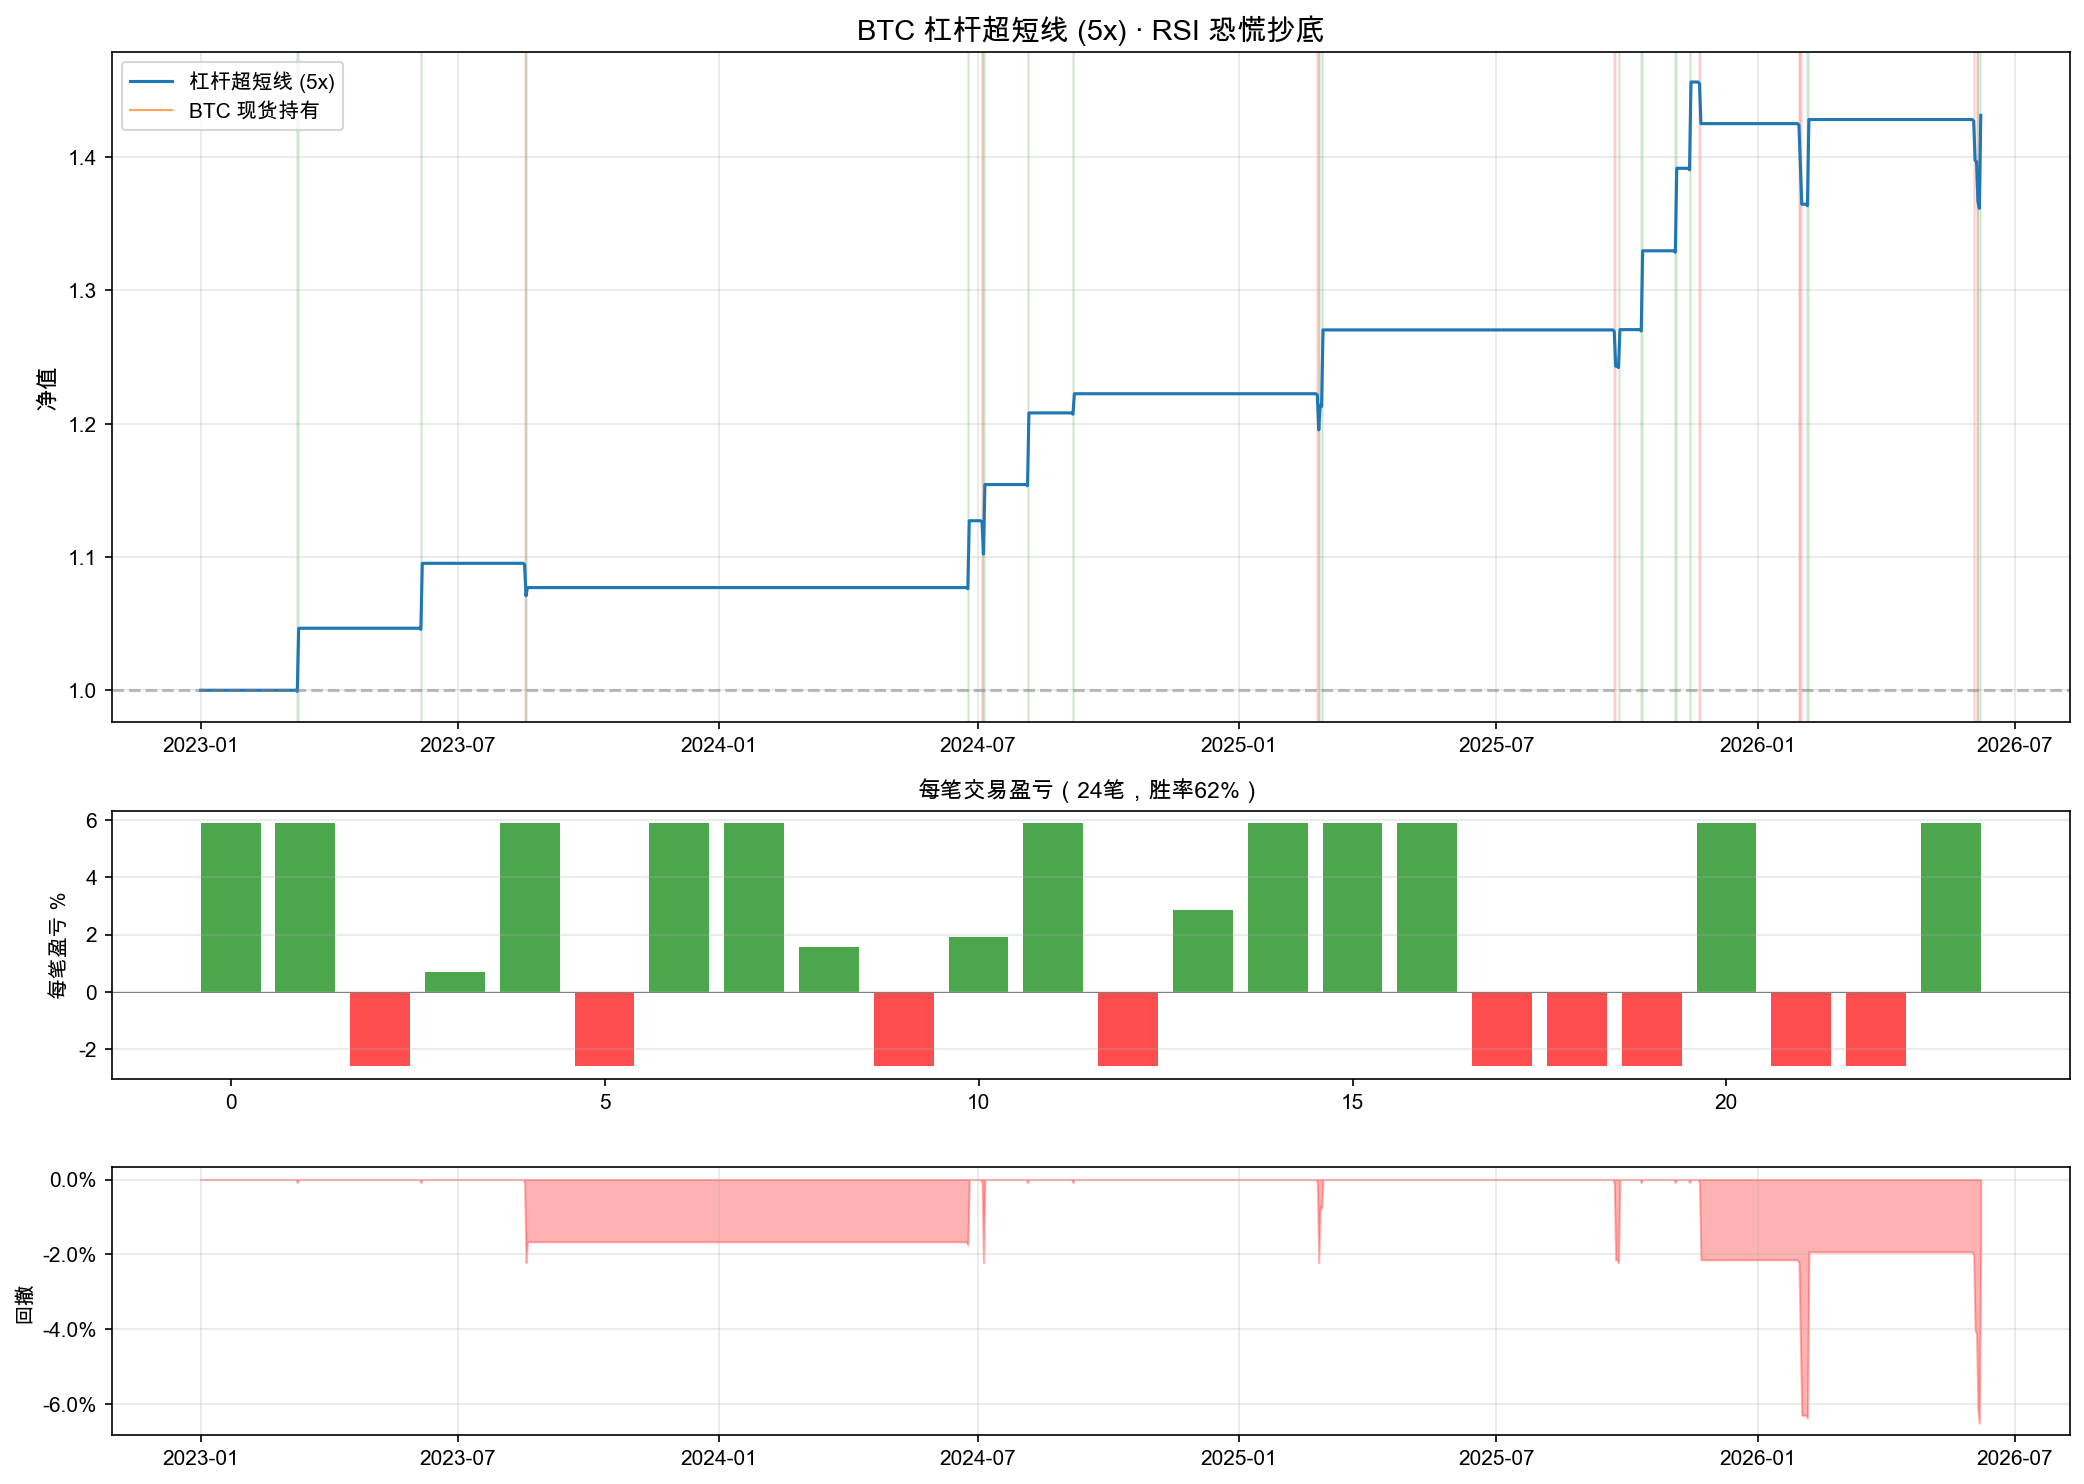
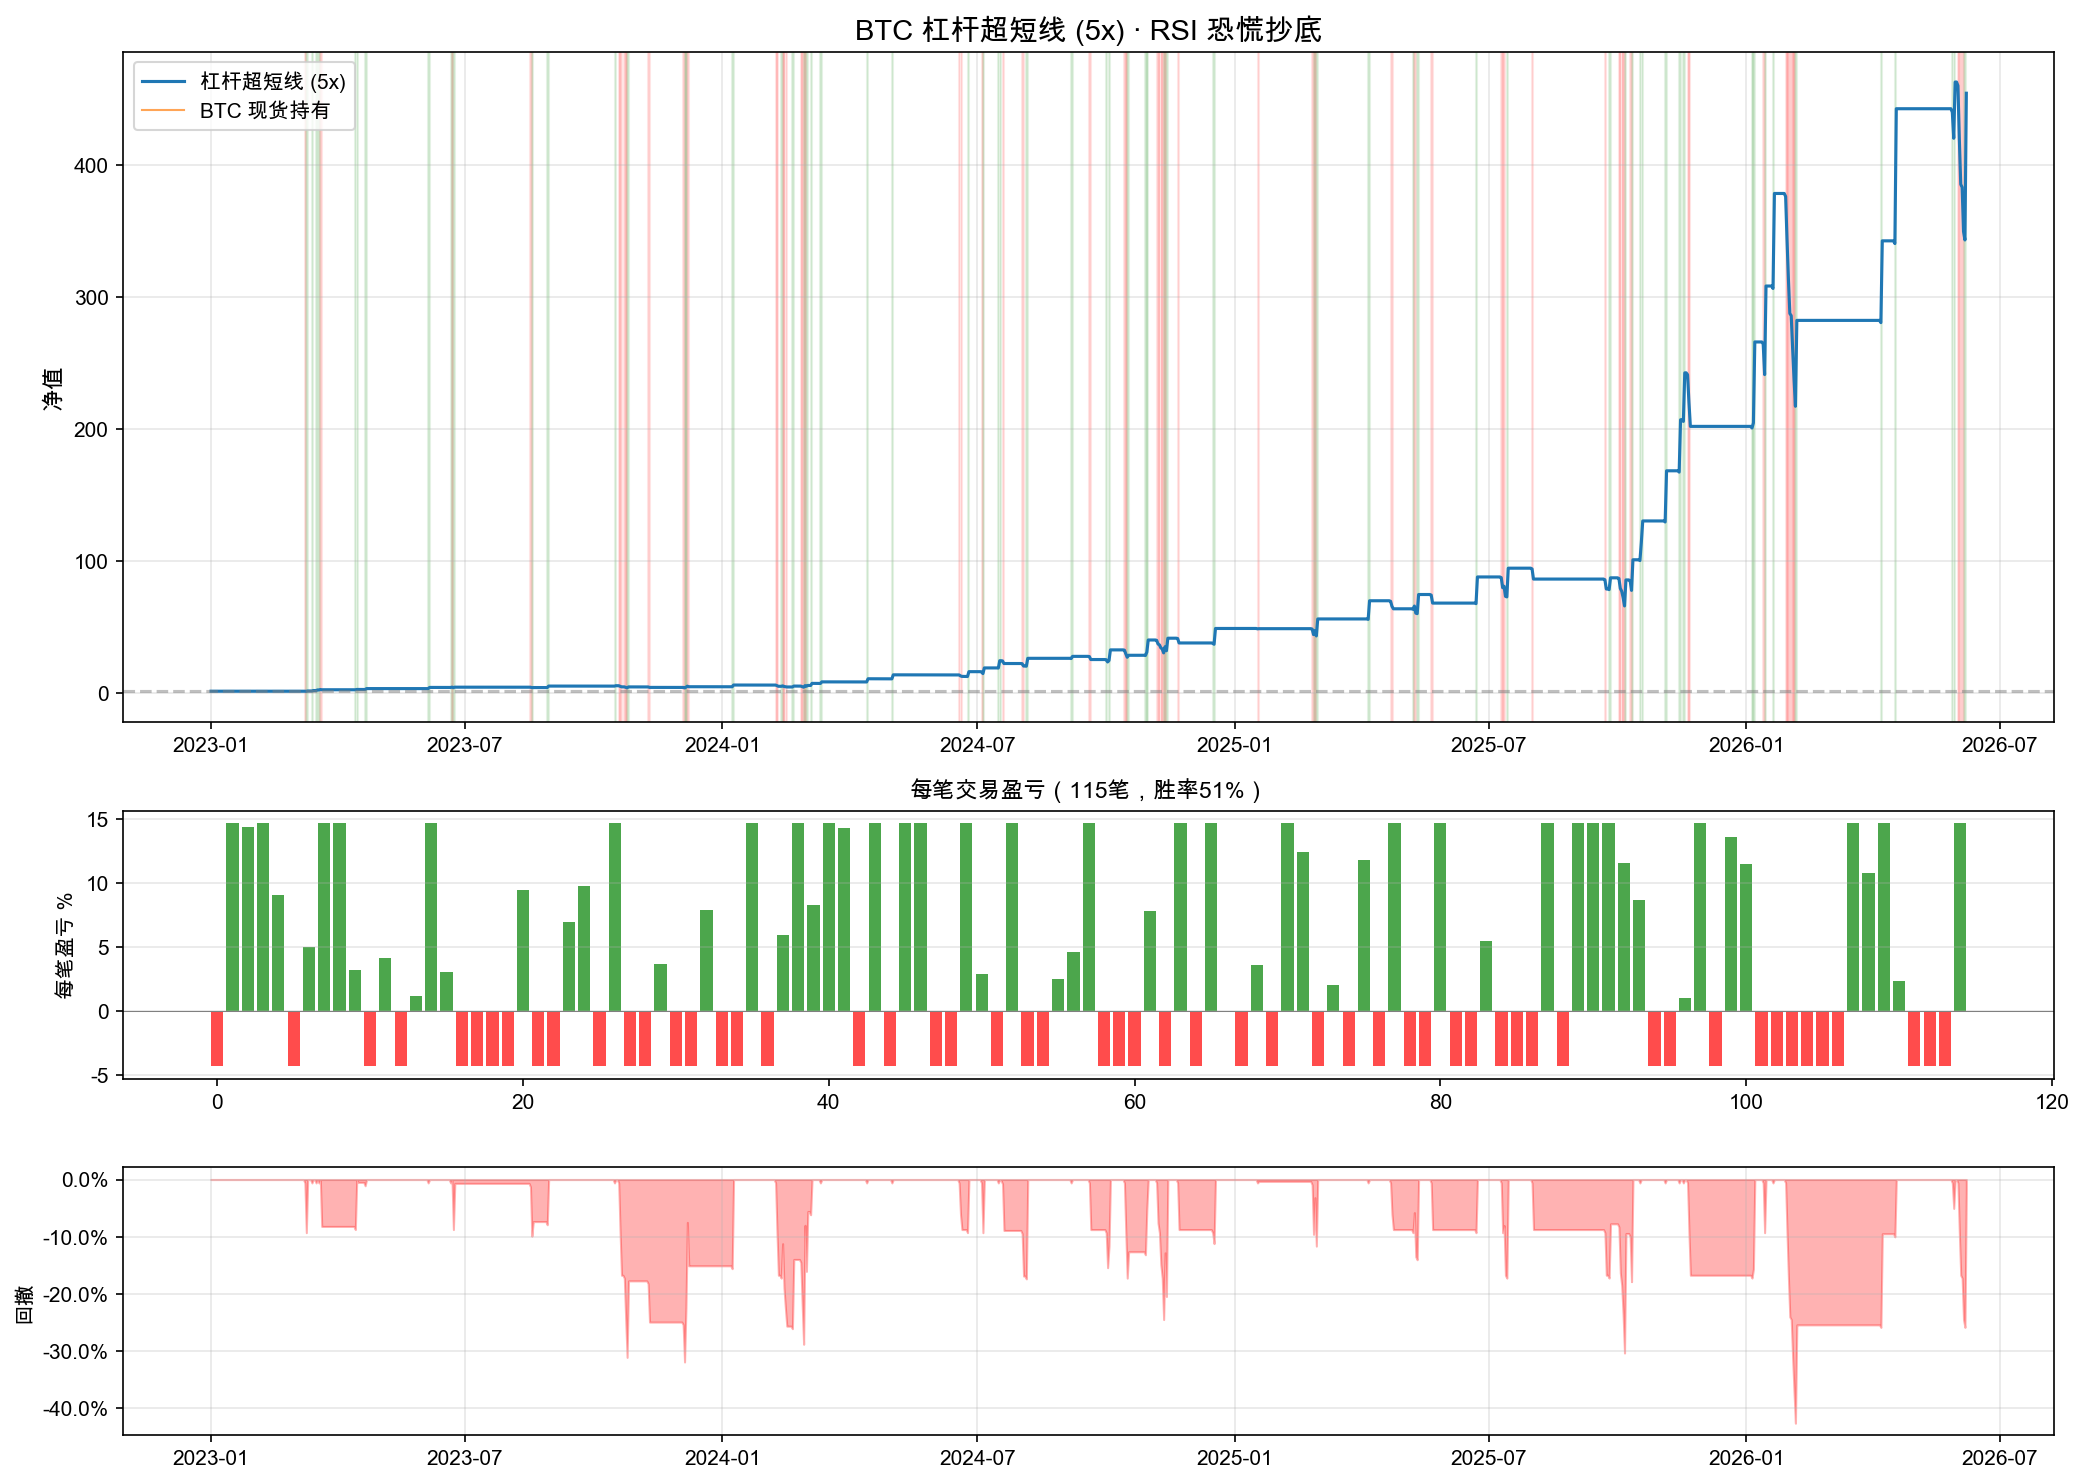
feat: 10x杠杆多空双向 + 激进参数

diff --git a/crypto_scalping.py b/crypto_scalping.py
@@ -22,18 +22,19 @@ plt.rcParams["axes.unicode_minus"] = False
 # ============================================================
 # 策略参数
 # ============================================================
-LEVERAGE = 5                # 5 倍杠杆
+LEVERAGE = 10               # 10 倍杠杆
 CAPITAL = 10_000            # 初始本金 $10,000
-RISK_PER_TRADE = 0.02       # 每笔风险 = 本金的 2%
-TP_PRICE_PCT = 0.012        # 止盈：价格涨 1.2%（×5 = 仓位赚 6%）
-SL_PRICE_PCT = 0.005        # 止损：价格跌 0.5%（×5 = 仓位亏 2.5%）
-RSI_PERIOD = 4              # 超短 RSI（4 根 K 线）
-RSI_ENTRY = 18              # 极端超卖才进
-MIN_VOL_SPIKE = 1.5         # 成交量要放大 1.5 倍（恐慌抛售确认）
-TRAILING_STOP = 0.003       # 移动止盈：从最高点回撤 0.3% 就锁定利润
+RISK_PER_TRADE = 0.08       # 每笔风险 = 本金的 8%（激进）
+TP_PRICE_PCT = 0.015        # 止盈：价格涨 1.5%（×10 = 赚 15%）
+SL_PRICE_PCT = 0.004        # 止损：价格跌 0.4%（×10 = 亏 4%）
+RSI_PERIOD = 5              # RSI 周期
+RSI_ENTRY_LONG = 25         # 超卖做多阈值
+RSI_ENTRY_SHORT = 78        # 超买做空阈值
+MIN_VOL_SPIKE = 1.2         # 放量确认（降低门槛）
+TRAILING_STOP = 0.004       # 移动止盈
 MAX_HOLD_BARS = 3           # 最长持仓 3 天
 FEE = 0.0004                # 永续合约手续费 0.04%
-SLIPPAGE = 0.0002           # 滑点 0.02%
+SLIPPAGE = 0.0003           # 滑点 0.03%
 TRADING_DAYS = 365
 
 
@@ -91,49 +92,70 @@ def run_scalping(quick: bool = False):
         # ==== 持仓中：检查平仓 ====
         if in_position:
             bars_held += 1
-            # 用日内最高价更新（模拟盯盘）
             highest_since_entry = max(highest_since_entry, price_high)
+            lowest_since_entry = min(lowest_since_entry, price_low)
 
-            # 未实现盈亏（价格变化）
-            unreal_pnl_pct = (price - entry_price) / entry_price
-            leveraged_pnl = unreal_pnl_pct * LEVERAGE
+            # 价格变化（做多正向，做空反向）
+            price_change = ((price - entry_price) / entry_price)
+            if direction == "short":
+                price_change = -price_change
 
             exit_price = None
             exit_reason = ""
 
-            # ① 硬止损
-            if unreal_pnl_pct <= -SL_PRICE_PCT:
-                exit_price = entry_price * (1 - SL_PRICE_PCT)
-                exit_reason = "止损"
-            # ② 硬止盈
-            elif unreal_pnl_pct >= TP_PRICE_PCT:
-                exit_price = entry_price * (1 + TP_PRICE_PCT)
-                exit_reason = "止盈"
-            # ③ 移动止盈：从最高点回落
-            elif highest_since_entry > entry_price:
-                drawdown_from_peak = (highest_since_entry - price) / entry_price
-                if drawdown_from_peak > TRAILING_STOP and unreal_pnl_pct > 0:
+            if direction == "long":
+                # 做多平仓条件
+                if price_change >= TP_PRICE_PCT:
+                    exit_price = entry_price * (1 + TP_PRICE_PCT)
+                    exit_reason = "止盈"
+                elif price_change <= -SL_PRICE_PCT:
+                    exit_price = entry_price * (1 - SL_PRICE_PCT)
+                    exit_reason = "止损"
+                elif highest_since_entry > entry_price:
+                    dd = (highest_since_entry - price) / entry_price
+                    if dd > TRAILING_STOP and price_change > 0:
+                        exit_price = price
+                        exit_reason = "移动止盈"
+                elif bars_held >= MAX_HOLD_BARS:
                     exit_price = price
-                    exit_reason = "移动止盈"
-            # ④ 超时
-            elif bars_held >= MAX_HOLD_BARS:
-                exit_price = price
-                exit_reason = f"超时{bars_held}天"
-            # ⑤ RSI 过热
-            elif not pd.isna(rsi_val) and rsi_val > 75:
-                exit_price = price
-                exit_reason = f"RSI过热"
+                    exit_reason = f"超时{bars_held}天"
+                elif not pd.isna(rsi_val) and rsi_val > 70:
+                    exit_price = price
+                    exit_reason = "RSI回落"
+            else:
+                # 做空平仓条件
+                if price_change >= TP_PRICE_PCT:
+                    exit_price = entry_price * (1 - TP_PRICE_PCT)
+                    exit_reason = "止盈"
+                elif price_change <= -SL_PRICE_PCT:
+                    exit_price = entry_price * (1 + SL_PRICE_PCT)
+                    exit_reason = "止损"
+                elif lowest_since_entry < entry_price:
+                    rally = (price - lowest_since_entry) / entry_price
+                    if rally > TRAILING_STOP and price_change > 0:
+                        exit_price = price
+                        exit_reason = "移动止盈"
+                elif bars_held >= MAX_HOLD_BARS:
+                    exit_price = price
+                    exit_reason = f"超时{bars_held}天"
+                elif not pd.isna(rsi_val) and rsi_val < 35:
+                    exit_price = price
+                    exit_reason = "RSI回升"
 
             if exit_price is not None:
-                exit_slip = exit_price * (1 - SLIPPAGE)
-                pnl_pct = (exit_slip / entry_price - 1) * LEVERAGE
+                exit_slip = exit_price * (1 - SLIPPAGE if direction == "long" else 1 + SLIPPAGE)
+                if direction == "long":
+                    pnl_pct = (exit_slip / entry_price - 1) * LEVERAGE
+                else:
+                    pnl_pct = (1 - exit_slip / entry_price) * LEVERAGE
                 pnl_dollar = position_value * pnl_pct - position_value * FEE * 2
                 equity += pnl_dollar
                 if equity <= 0:
-                    equity = 0.01  # 爆仓保护
+                    equity = 0.01
+                    break
 
                 trades.append({
-                    "entry_date": entry_date, "exit_date": date,
+                    "dir": direction, "entry_date": entry_date, "exit_date": date,
                     "entry": entry_price, "exit": exit_slip,
                     "pnl_pct": pnl_pct * 100, "pnl_$": pnl_dollar,
                     "reason": exit_reason, "bars": bars_held,
@@ -143,34 +165,40 @@ def run_scalping(quick: bool = False):
 
         # ==== 空仓中：看入场信号 ====
         if not in_position and not pd.isna(rsi_val):
-            # 入场：RSI 极端超卖 + 放量（恐慌抛售 = 抄底机会）
-            panic_sell = rsi_val < RSI_ENTRY and vol_ratio > MIN_VOL_SPIKE
-            # 确认：当前价高于当日最低价（有反弹迹象）
-            reversal = price > price_low * 1.002
+            direction = None
 
-            if panic_sell and reversal:
-                # 仓位计算：风险 = 本金 × 2%，止损价差 = entry × SL_PRICE_PCT
+            # 做多：超卖 + 放量 + 反弹确认
+            long_sig = (rsi_val < RSI_ENTRY_LONG and vol_ratio > MIN_VOL_SPIKE
+                       and price > price_low * 1.003)
+            # 做空：超买 + 放量 + 回落确认
+            short_sig = (rsi_val > RSI_ENTRY_SHORT and vol_ratio > MIN_VOL_SPIKE
+                        and price < price_high * 0.997)
+
+            if long_sig:
+                direction = "long"
+            elif short_sig:
+                direction = "short"
+
+            if direction:
                 risk_amount = equity * RISK_PER_TRADE
-                price_risk = price * SL_PRICE_PCT * LEVERAGE
-                if price_risk > 0:
-                    position_value = risk_amount / (SL_PRICE_PCT * LEVERAGE)
-                else:
-                    position_value = equity * LEVERAGE * 0.5
-
-                # 不能超过可用杠杆
+                price_risk = SL_PRICE_PCT * LEVERAGE
+                position_value = risk_amount / (SL_PRICE_PCT * LEVERAGE) if price_risk > 0 else equity * LEVERAGE * 0.5
                 max_position = equity * LEVERAGE
                 position_value = min(position_value, max_position)
 
-                entry_price = price * (1 + SLIPPAGE)  # 买入滑点
+                entry_price = price * (1 + SLIPPAGE if direction == "long" else 1 - SLIPPAGE)
                 highest_since_entry = entry_price
+                lowest_since_entry = entry_price
                 entry_date = date
                 bars_held = 0
                 in_position = True
 
         # ==== 记录权益 ====
         if in_position:
-            mark_price = price
-            unreal = (mark_price / entry_price - 1) * LEVERAGE
+            if direction == "long":
+                unreal = (price / entry_price - 1) * LEVERAGE
+            else:
+                unreal = (1 - price / entry_price) * LEVERAGE
             total_equity = equity + position_value * unreal
         else:
             total_equity = equity
